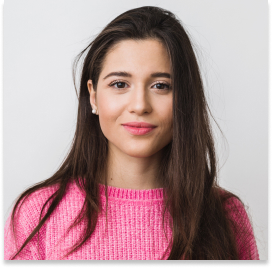
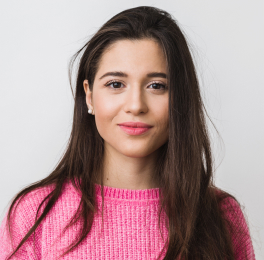
Img edits

diff --git a/index.html b/index.html
@@ -59,7 +59,7 @@
             <h2 class="section-3-name">What are we doing</h2>
             <ul>
                 <li><img src="./images/Rectangle1.jpg" alt="Picture1" width="360"></li>
-                <li><img src="./images/Rectangle2.jpg" alt="Picture2" width="360"></li>
+                <li><img src="./images/Rectangle22.jpg" alt="Picture2" width="360"></li>
                 <li><img src="./images/Rectangle3.jpg" alt="Picture3" width="360"></li>
             </ul>
 
